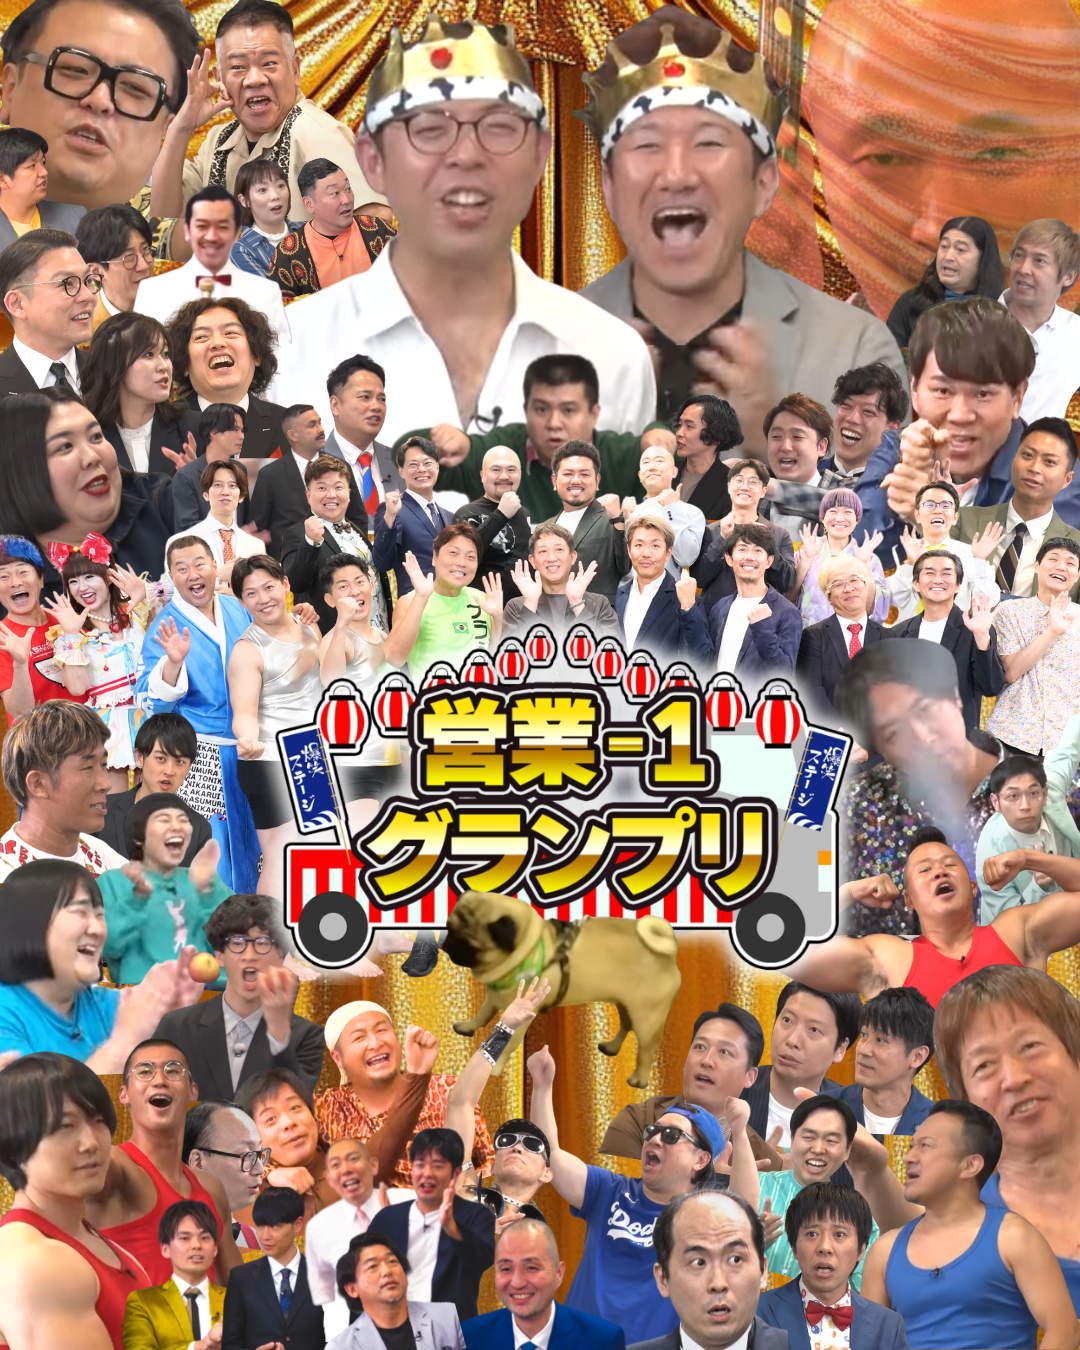
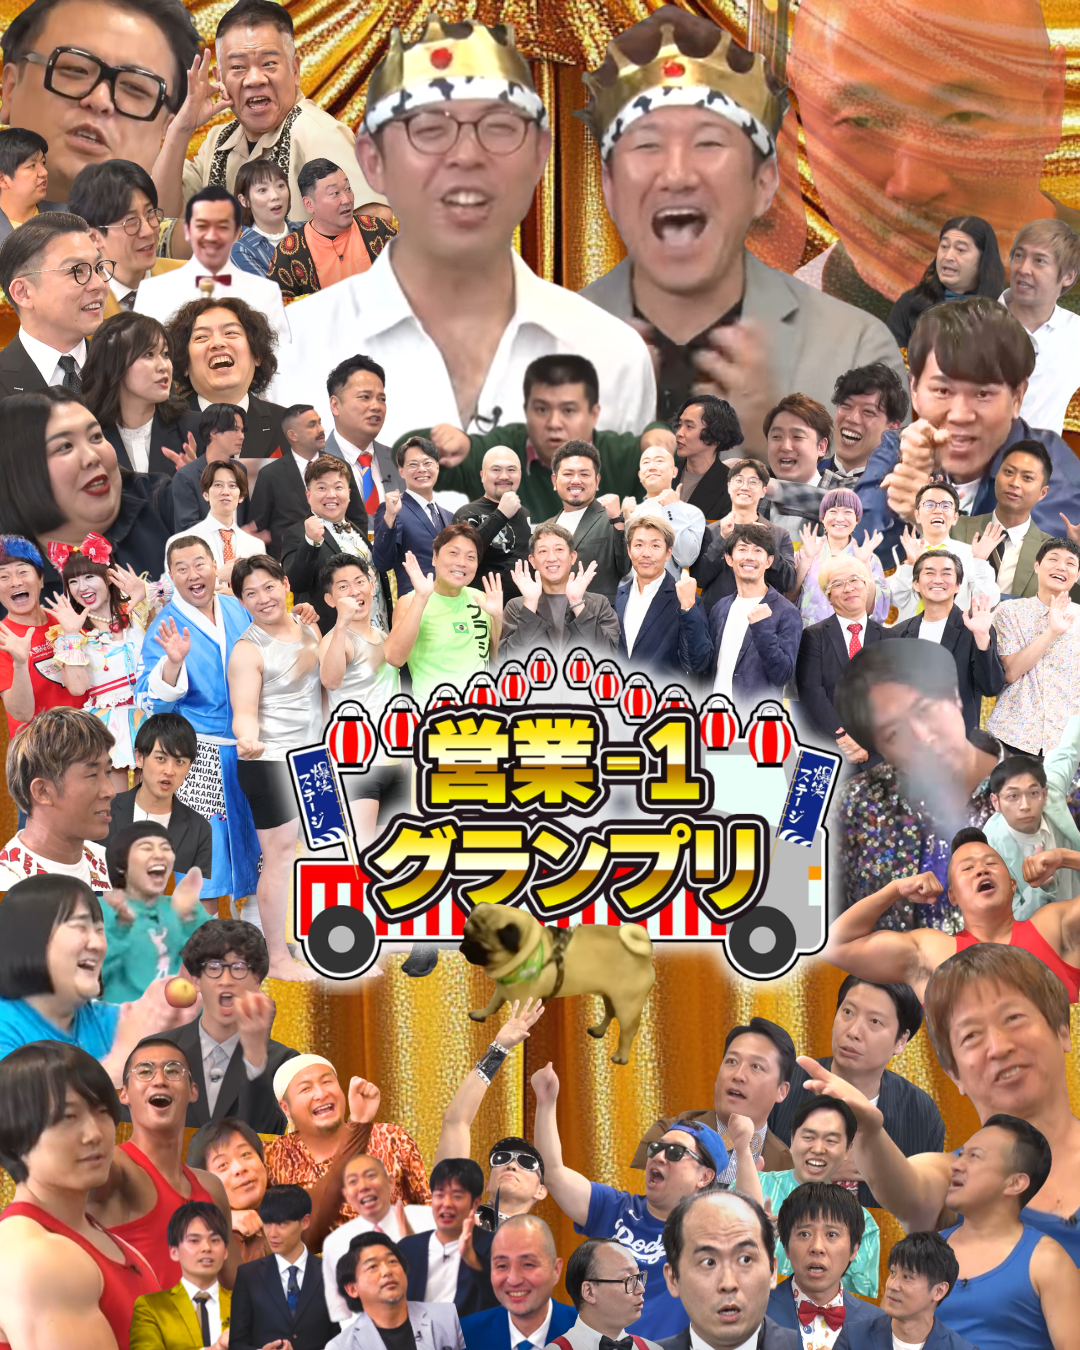
fix: スマホ余白削除 / ロゴクリック挙動修正 / TOP_SP差し替え / ノールック契約リンク追加

diff --git a/index.html b/index.html
@@ -76,9 +76,11 @@ nav a{color:var(--text-sub);text-decoration:none;font-size:.74rem;font-weight:70
 .hero-yt-wrap iframe{position:absolute;inset:0;width:100%;height:100%;border:0}
 /* TOP見出し画像 */
 .no-look-title-wrap{position:relative;display:inline-block;margin:0 auto;padding:0}
-.no-look-title-img{display:block;width:min(880px,92vw);height:auto;margin:0 auto 12px;mix-blend-mode:multiply;filter:drop-shadow(0 14px 28px rgba(0,0,0,.35)) drop-shadow(0 4px 10px rgba(0,0,0,.25)) drop-shadow(0 1px 2px rgba(0,0,0,.2));opacity:0;transform:scale(.92)}
+.no-look-link{display:block;line-height:0;cursor:pointer;-webkit-tap-highlight-color:transparent}
+.no-look-link:hover .no-look-title-img{opacity:.88;transition:opacity .2s ease}
+.no-look-title-img{display:block;width:min(880px,92vw);height:auto;margin:0 auto 12px;mix-blend-mode:multiply;filter:drop-shadow(0 14px 28px rgba(0,0,0,.35)) drop-shadow(0 4px 10px rgba(0,0,0,.25)) drop-shadow(0 1px 2px rgba(0,0,0,.2));transform:scale(.92)}
 body.hero-ready .no-look-title-img{animation:titleIn .8s cubic-bezier(.2,.8,.2,1) forwards}
-@keyframes titleIn{0%{opacity:0;transform:scale(.92)}60%{opacity:1;transform:scale(1.04)}100%{opacity:1;transform:scale(1)}}
+@keyframes titleIn{0%{transform:scale(.92)}60%{transform:scale(1.04)}100%{transform:scale(1)}}
 .title-glow{position:absolute;inset:0;background:radial-gradient(circle at 30% 40%,rgba(255,255,255,.6),transparent 40%);opacity:0;pointer-events:none}
 body.hero-ready .title-glow{animation:glowFlash .9s ease-out .3s}
 @keyframes glowFlash{0%{opacity:0}40%{opacity:.8}100%{opacity:0}}
@@ -152,8 +154,8 @@ body.hero-ready .title-glow{animation:glowFlash .9s ease-out .3s}
 #video{background:var(--bg)}.vg{display:grid;grid-template-columns:repeat(auto-fit,minmax(240px,1fr));gap:12px;margin-top:40px}.vc{background:var(--white);border-radius:10px;padding:24px;border:1px solid var(--border);transition:transform .3s}.vc:hover{transform:translateY(-3px)}.vc h4{font-size:.9rem;font-weight:700;margin-bottom:6px}.vc p{font-size:.76rem;color:var(--text-sub);line-height:1.7;margin-bottom:10px}.vl{font-size:.72rem;color:var(--red);text-decoration:none;font-weight:700}.vl:hover{text-decoration:underline}
 #faq{background:var(--white)}.fl{margin-top:40px;max-width:760px}.fqi{border-bottom:1px solid var(--border)}.fq{width:100%;background:none;border:none;font-family:var(--font);font-size:.92rem;font-weight:700;text-align:left;padding:20px 0;cursor:pointer;color:var(--text);display:flex;justify-content:space-between;align-items:center;gap:16px;transition:color .3s}.fq:hover{color:var(--red)}.fq::after{content:'+';font-size:1.3rem;color:var(--gold);transition:transform .3s;flex-shrink:0}.fqi.open .fq::after{transform:rotate(45deg)}.fa{max-height:0;overflow:hidden;transition:max-height .4s}.fqi.open .fa{max-height:300px;padding-bottom:20px}.fa p{font-size:.82rem;color:var(--text-sub);line-height:1.9}
 footer{background:var(--black);color:#ccc;padding:50px 0 24px}.ftt{display:flex;justify-content:space-between;align-items:flex-start;flex-wrap:wrap;gap:40px;margin-bottom:30px}.ftl{font-family:var(--font-a);font-weight:900;font-size:1rem;color:#fff;margin-bottom:8px}.ftl .g{color:var(--gold-bright)}.ftd{font-size:.7rem;color:#888;max-width:280px;line-height:1.7}.ftk{display:flex;gap:36px}.ftc h4{font-size:.62rem;letter-spacing:.2em;color:var(--gold);margin-bottom:10px}.ftc a{display:block;font-size:.72rem;color:#888;text-decoration:none;margin-bottom:6px;transition:color .3s}.ftc a:hover{color:var(--gold-light)}.ftb{border-top:1px solid #333;padding-top:16px;display:flex;justify-content:space-between;flex-wrap:wrap;gap:12px}.ftb p{font-size:.6rem;color:#555}
-@media(max-width:980px){nav a:not(.ncta){display:none}.hbr{display:block}.hero-inner,.video-grid,.manual-lead,.history-wrap,.cta-grid,.champ-grid{grid-template-columns:1fr}.hero-inner{padding-top:120px}.r2c,.split-highlights{grid-template-columns:1fr}.qg{grid-template-columns:repeat(2,minmax(0,1fr))}.ftk{flex-direction:column;gap:20px}}
-@media(max-width:640px){.hero-sr{gap:12px}.hero-photo{min-height:460px}.hero-inner{padding-top:110px}.qg{grid-template-columns:1fr}.gg{grid-template-columns:repeat(auto-fill,minmax(140px,1fr))}.ri{grid-template-columns:36px 1fr auto;gap:10px;padding:12px 10px}.sc{grid-template-columns:1fr}.gi.wide{grid-column:span 1}.hero-note{display:none}.hero-sub{font-size:.86rem;line-height:1.75;letter-spacing:0}}
+@media(max-width:980px){nav a:not(.ncta){display:none}.hbr{display:block}.hero-inner,.video-grid,.manual-lead,.history-wrap,.cta-grid,.champ-grid{grid-template-columns:1fr}.r2c,.split-highlights{grid-template-columns:1fr}.qg{grid-template-columns:repeat(2,minmax(0,1fr))}.ftk{grid-template-columns:1fr;flex-direction:column;gap:20px}}
+@media(max-width:640px){.hero-sr{gap:12px}.hero-photo{min-height:460px}.qg{grid-template-columns:1fr}.gg{grid-template-columns:repeat(auto-fill,minmax(140px,1fr))}.ri{grid-template-columns:36px 1fr auto;gap:10px;padding:12px 10px}.sc{grid-template-columns:1fr}.gi.wide{grid-column:span 1}.hero-note{display:none}.hero-sub{font-size:.86rem;line-height:1.75;letter-spacing:0}}
 /* ── 最新情報カード ── */
 .news-info-grid{display:grid;grid-template-columns:repeat(auto-fit,minmax(220px,1fr));gap:14px;margin-top:20px}
 .news-info-box{background:rgba(255,255,255,.06);border-radius:8px;padding:16px}
@@ -346,7 +348,7 @@ footer{background:var(--black);color:#ccc;padding:50px 0 24px}.ftt{display:flex;
 
 <header>
   <div class="container">
-    <a href="#hero" class="logo"><img src="" data-candidates="assets/logos/eigyo1_logo.png|assets/logos/eigyo1_logo.jpg|assets/logos/eigyo1_logo.jpeg|assets/logos/eigyo1_logo.webp|営業-1ロゴ透明.png|営業-1ロゴ透明.jpg|営業-1ロゴ透明.jpeg|営業-1ロゴ透明.webp" alt="営業-1グランプリ ロゴ" class="auto-img logo-img" onerror="this.style.display='none'"></a>
+    <a href="index.html" class="logo"><img src="" data-candidates="assets/logos/eigyo1_logo.png|assets/logos/eigyo1_logo.jpg|assets/logos/eigyo1_logo.jpeg|assets/logos/eigyo1_logo.webp|営業-1ロゴ透明.png|営業-1ロゴ透明.jpg|営業-1ロゴ透明.jpeg|営業-1ロゴ透明.webp" alt="営業-1グランプリ ロゴ" class="auto-img logo-img" onerror="this.style.display='none'"></a>
     <nav>
       <a href="index.html#lv">最新情報</a>
       <a href="buzz100.html">バズり動画100</a>
@@ -373,7 +375,7 @@ footer{background:var(--black);color:#ccc;padding:50px 0 24px}.ftt{display:flex;
 </div>
 <section class="hero hero-visual">
   <picture>
-    <source media="(max-width:768px)" srcset="hero/TOP_SP.png">
+    <source media="(max-width:768px)" srcset="hero/TOP_SP.png?v=20260501">
     <img src="hero/TOP.png" class="hero-bg" alt="営業-1グランプリ ビジュアル">
   </picture>
   <div class="hero-logo-wrap" id="heroLogoWrap">
@@ -384,7 +386,9 @@ footer{background:var(--black);color:#ccc;padding:50px 0 24px}.ftt{display:flex;
   <div class="hero-text">
     <div class="container hero-inner">
       <div class="no-look-title-wrap">
-        <img src="assets/images/hero/no_look_contract.png" class="no-look-title-img" alt="ノールック契約">
+        <a href="https://youtu.be/68utLC3Inf4?si=ynQtE0eNs2Clw8lO&amp;t=9176" target="_blank" rel="noopener noreferrer" class="no-look-link">
+          <img src="assets/images/hero/no_look_contract.png" class="no-look-title-img" alt="ノールック契約">
+        </a>
         <span class="title-glow" aria-hidden="true"></span>
       </div>
       <p class="hero-sub">営業-１グランプリのオフィシャルホームページです。営業現場のリアル写真、秘蔵のスタジオ写真、番組資料など営業-１グランプリのすべてがここでみることができます。</p>
@@ -749,6 +753,8 @@ initAutoImages();
 </script>
 
 <style>
+/* SP: TOP_SP.png直下の余白ゼロ — ここが最終カスケードなので!importantで確実に上書き */
+@media(max-width:768px){.hero-text{padding-top:0!important}.hero-inner{padding-top:0!important}}
 .event-cta{display:block!important;width:100%!important;background:#181818!important;color:#fff!important;padding:72px 20px!important;text-align:center!important;box-sizing:border-box!important;margin:0!important}
 .event-cta-inner{max-width:960px!important;margin:0 auto!important;background:transparent!important}
 .event-cta .event-label{color:#c9a227!important;font-size:12px!important;letter-spacing:.18em!important;margin:0 0 16px!important;font-weight:700!important}
